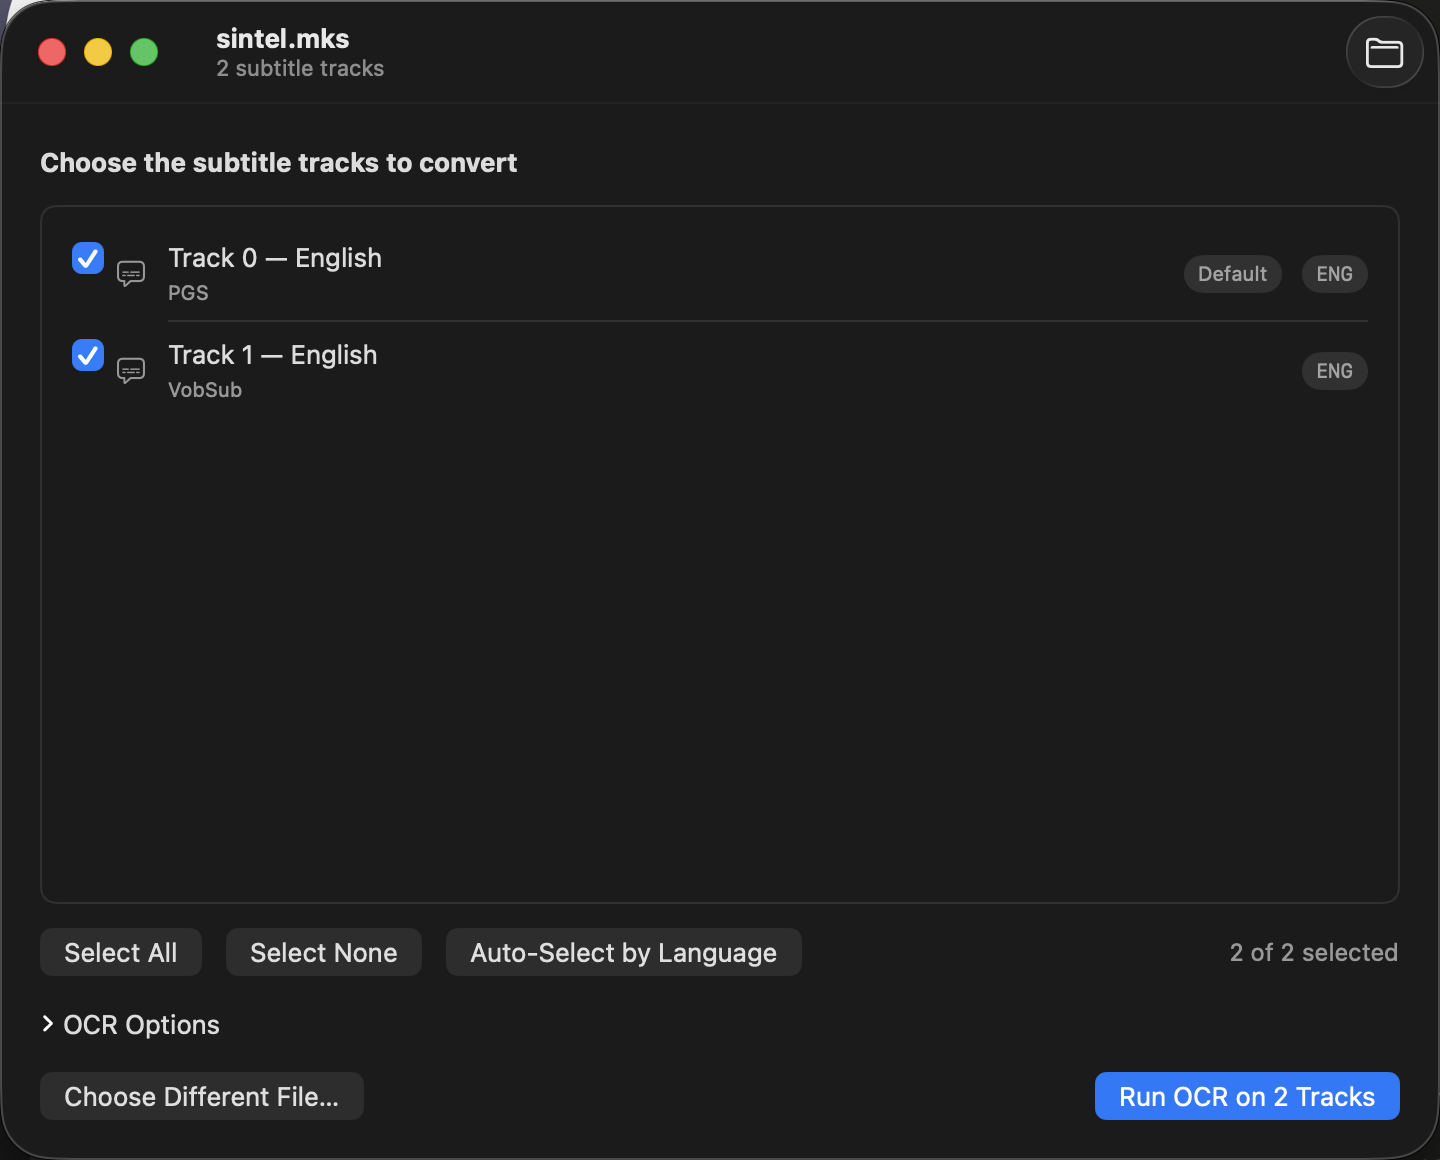
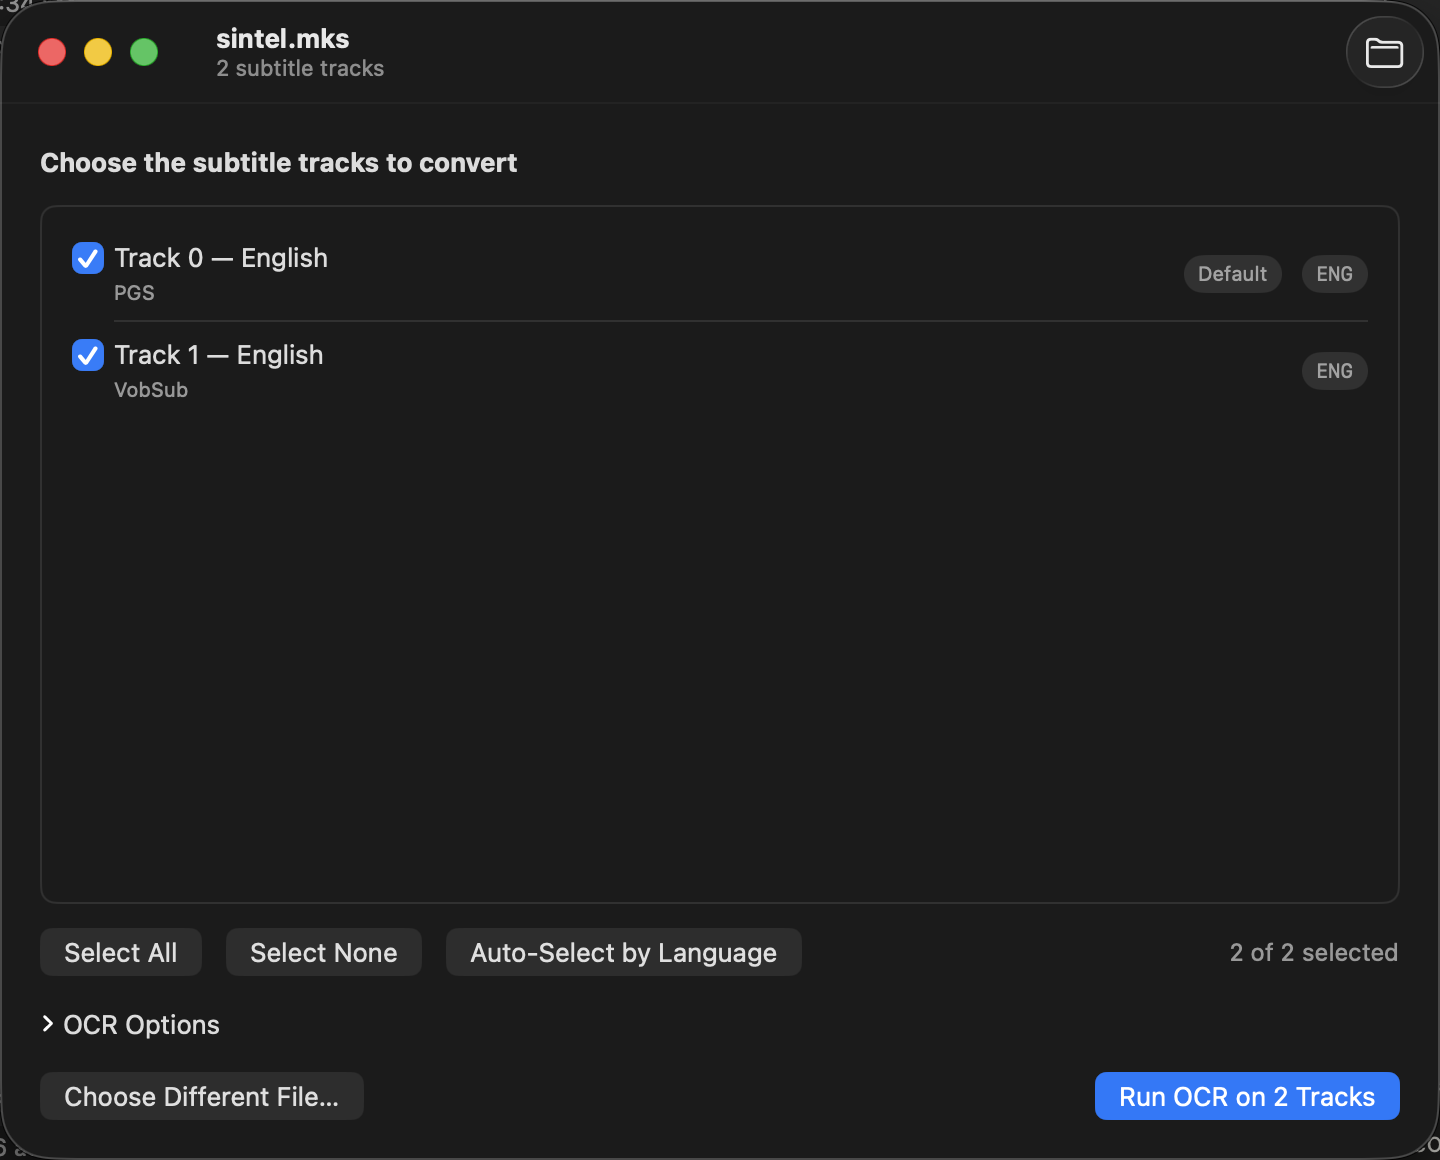
Fix checkbox/glyph misalignment in the track list
The leading captions glyph centred itself on the two-line label while the
checkbox aligned to the title line, so the two read as misaligned down the
column. Removed the glyph rather than nudging it: "Forced" and "Default"
are already carried by the badges, so it conveyed nothing the row didn't
already say, and the checkbox now sits cleanly against the title.

Screenshots updated to match.

Changed region(s): [[0.0625, 0.2172, 0.2812, 0.3414], [0.0, 0.9931, 0.0312, 1.0], [0.0, 0.0, 0.0312, 0.031]]

diff --git a/Sources/macSubtitleOCR-gui/Views/TracksView.swift b/Sources/macSubtitleOCR-gui/Views/TracksView.swift
@@ -187,10 +187,9 @@ private struct TrackCheckRow: View {
     var body: some View {
         Toggle(isOn: $isOn) {
             HStack(spacing: 10) {
-                Image(systemName: track.isForced ? "captions.bubble.fill" : "captions.bubble")
-                    .foregroundStyle(track.isForced ? Color.accentColor : Color.secondary)
-                    .accessibilityHidden(true)
-
+                // No leading glyph here: it centred on the two-line label while
+                // the checkbox aligned to the title, which read as misaligned.
+                // "Forced" and "Default" are already carried by the badges.
                 VStack(alignment: .leading, spacing: 1) {
                     Text(track.displayTitle)
                     Text(track.displaySubtitle)
